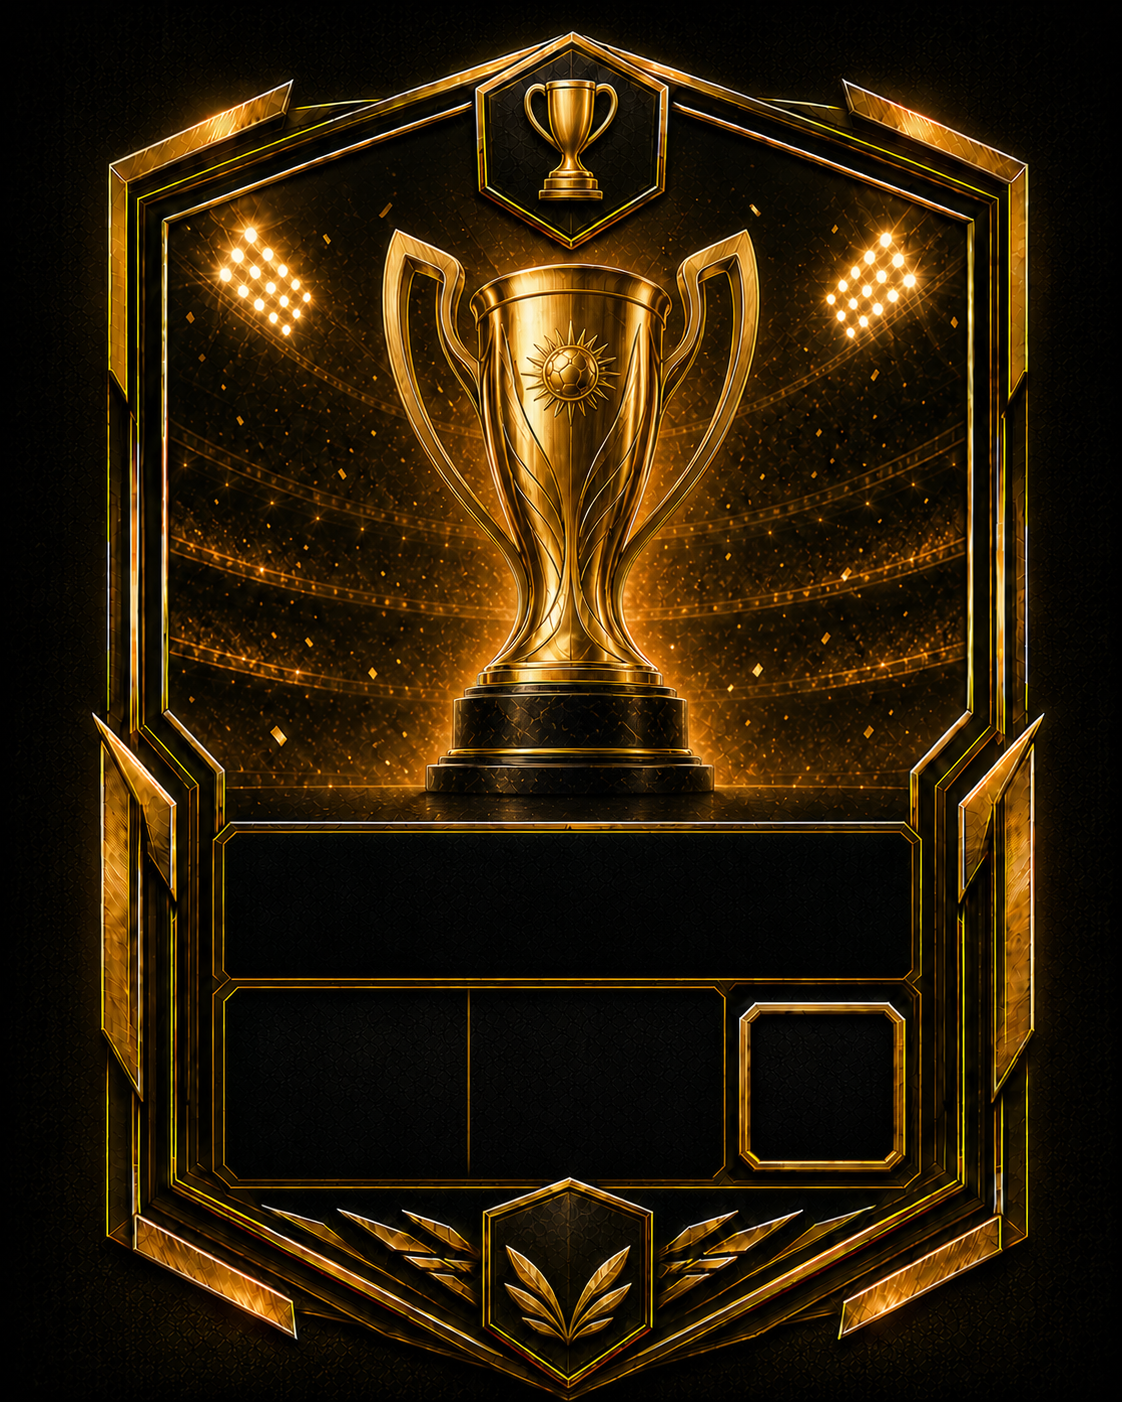
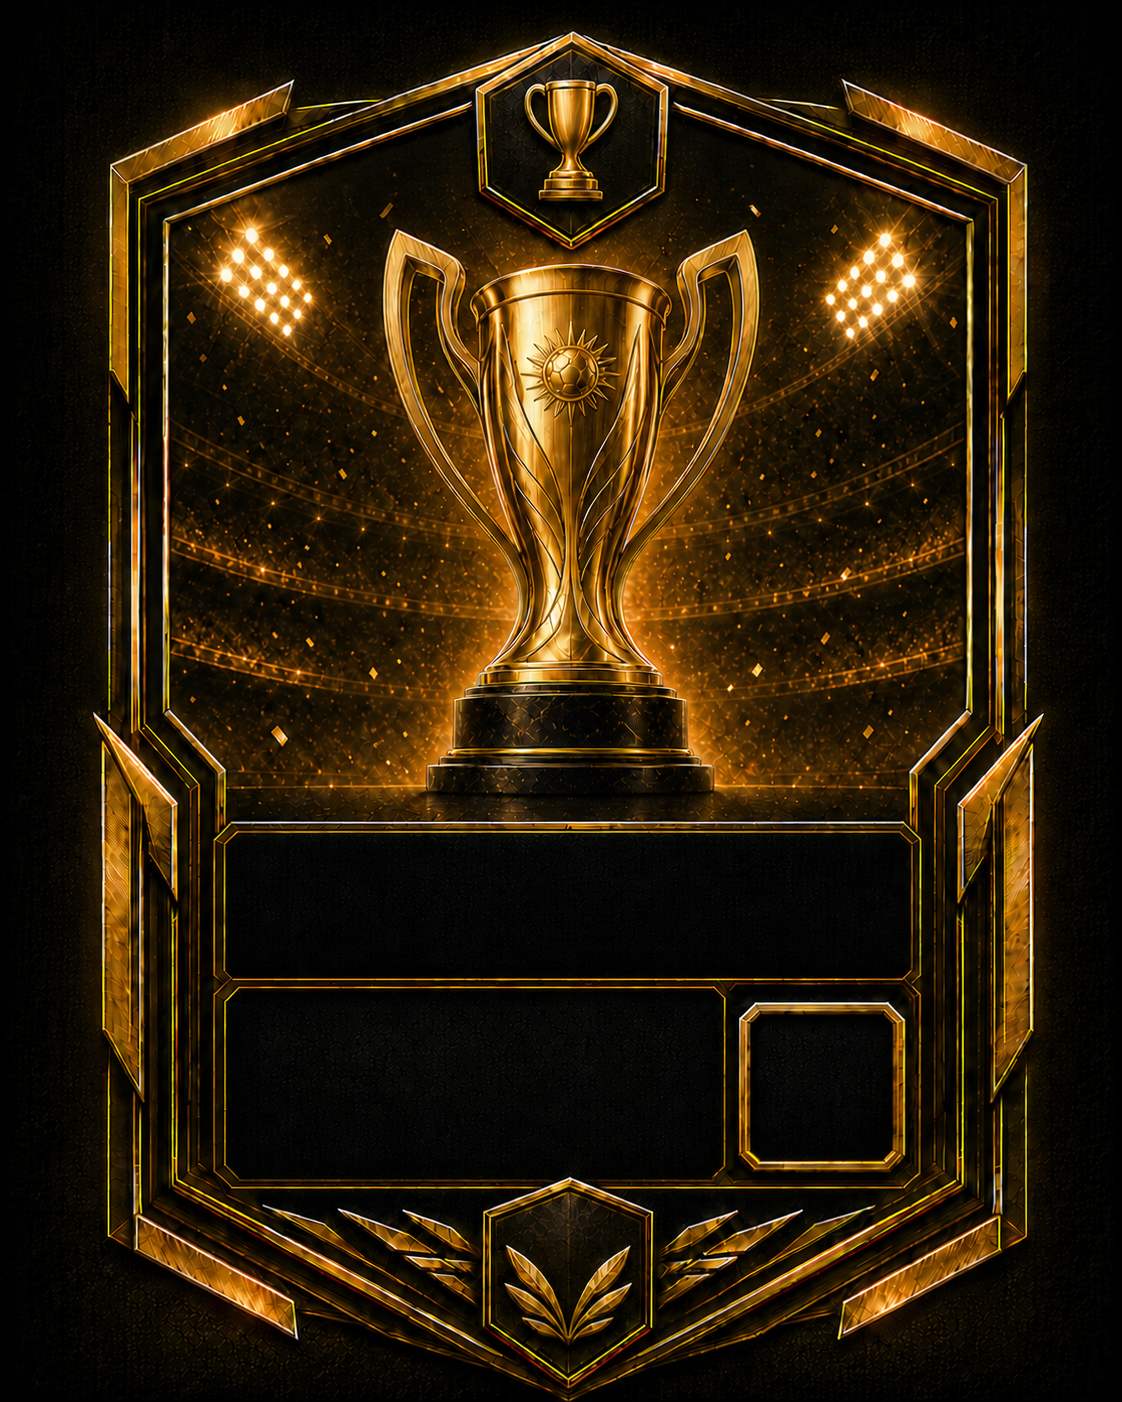
fix: remove embedded champion roster divider

diff --git a/components/admin/champion-card-studio.tsx b/components/admin/champion-card-studio.tsx
@@ -42,7 +42,6 @@ function playersInVisualOrder(players: string[], columns: number) {
 }
 
 function rosterDividerPositions(columns: number) {
-  if (columns === 2) return []
   return Array.from({ length: columns - 1 }, (_, index) => index + 1)
     .filter((divider) => !(columns === 4 && divider === 2))
     .map((divider) => divider / columns)
@@ -195,7 +194,6 @@ export function ChampionCardStudio() {
           <button type="button" onPointerDown={(event) => beginDrag(event, "tournament")} className={`absolute flex cursor-move items-center justify-center border border-dashed px-1 text-center uppercase leading-none ${selectionFrames && selected === "tournament" ? "border-emerald-300/80 bg-emerald-300/5" : "border-transparent"}`} style={{ left: `${layout.tournamentX * 100}%`, top: `${layout.tournamentY * 100}%`, width: `${layout.tournamentWidth * 100}%`, transform: "translate(-50%,-50%)" }}><span className="truncate whitespace-nowrap" style={{ color: "#c9a85d", fontFamily: family, fontWeight: weight, fontSize: `${layout.tournamentSize * 100}cqw` }}>{tournamentName || "Campeonato"}</span></button>
           <span className="pointer-events-none absolute z-10 -translate-x-1/2 -translate-y-1/2 whitespace-nowrap border border-[#c9a85d]/50 bg-[#050508]/95 px-[1.2cqw] py-[0.15cqw] font-teko text-[1.7cqw] font-semibold text-[#d9bc78]" style={{ left: `${(layout.rosterX + layout.rosterWidth / 2) * 100}%`, top: `${(layout.rosterY - 0.022) * 100}%` }}>{players.length ? "ELENCO CAMPEÃO" : "TÍTULO CONQUISTADO"}</span>
           <button type="button" onPointerDown={(event) => beginDrag(event, "roster")} className={`absolute cursor-move border border-dashed ${selectionFrames && selected === "roster" ? "border-emerald-300/80 bg-emerald-300/5" : "border-transparent"}`} style={{ left: `${layout.rosterX * 100}%`, top: `${layout.rosterY * 100}%`, width: `${layout.rosterWidth * 100}%`, height: `${layout.rosterHeight * 100}%` }}>
-            {layout.rosterColumns !== 2 && <span className="pointer-events-none absolute inset-y-0 left-1/2 z-0 w-[0.28cqw] -translate-x-1/2 bg-[#050508]" />}
             {rosterDividerPositions(layout.rosterColumns).map((position) => <span key={position} className="pointer-events-none absolute inset-y-0 z-0 w-px bg-[#c9a85d]/35" style={{ left: `${position * 100}%` }} />)}
             <span className="relative z-[1] grid h-full content-between items-center uppercase leading-none text-[#f4f1e8]" style={{ gridTemplateColumns: `repeat(${layout.rosterColumns}, minmax(0, 1fr))`, fontFamily: family, fontWeight: weight, fontSize: `${rosterFontSize}cqw` }}>{playersInVisualOrder(players, layout.rosterColumns).map((name, index) => <span key={`${name}-${index}`} className="truncate px-[0.3cqw] text-center">{name}</span>)}</span>
           </button>

diff --git a/lib/champion-card-render.ts b/lib/champion-card-render.ts
@@ -37,7 +37,6 @@ function fitRosterText(ctx: CanvasRenderingContext2D, text: string, family: stri
 }
 
 function rosterDividerPositions(columns: number) {
-  if (columns === 2) return []
   return Array.from({ length: columns - 1 }, (_, index) => index + 1)
     .filter((divider) => !(columns === 4 && divider === 2))
     .map((divider) => divider / columns)
@@ -100,10 +99,6 @@ export async function renderChampionCard(canvas: HTMLCanvasElement, data: Champi
     const endY = height * (layout.rosterY + layout.rosterHeight)
     const rowHeight = (endY - startY) / rows
     const fontSize = Math.max(width * 0.007, Math.min(width * layout.rosterSize, rowHeight * 0.64))
-    if (columns !== 2) {
-      ctx.fillStyle = "#050508"
-      ctx.fillRect(left + usableWidth / 2 - width * 0.0014, startY, width * 0.0028, endY - startY)
-    }
     ctx.strokeStyle = "rgba(201, 168, 93, 0.35)"
     ctx.lineWidth = Math.max(1, width * 0.0007)
     for (const position of rosterDividerPositions(columns)) {
